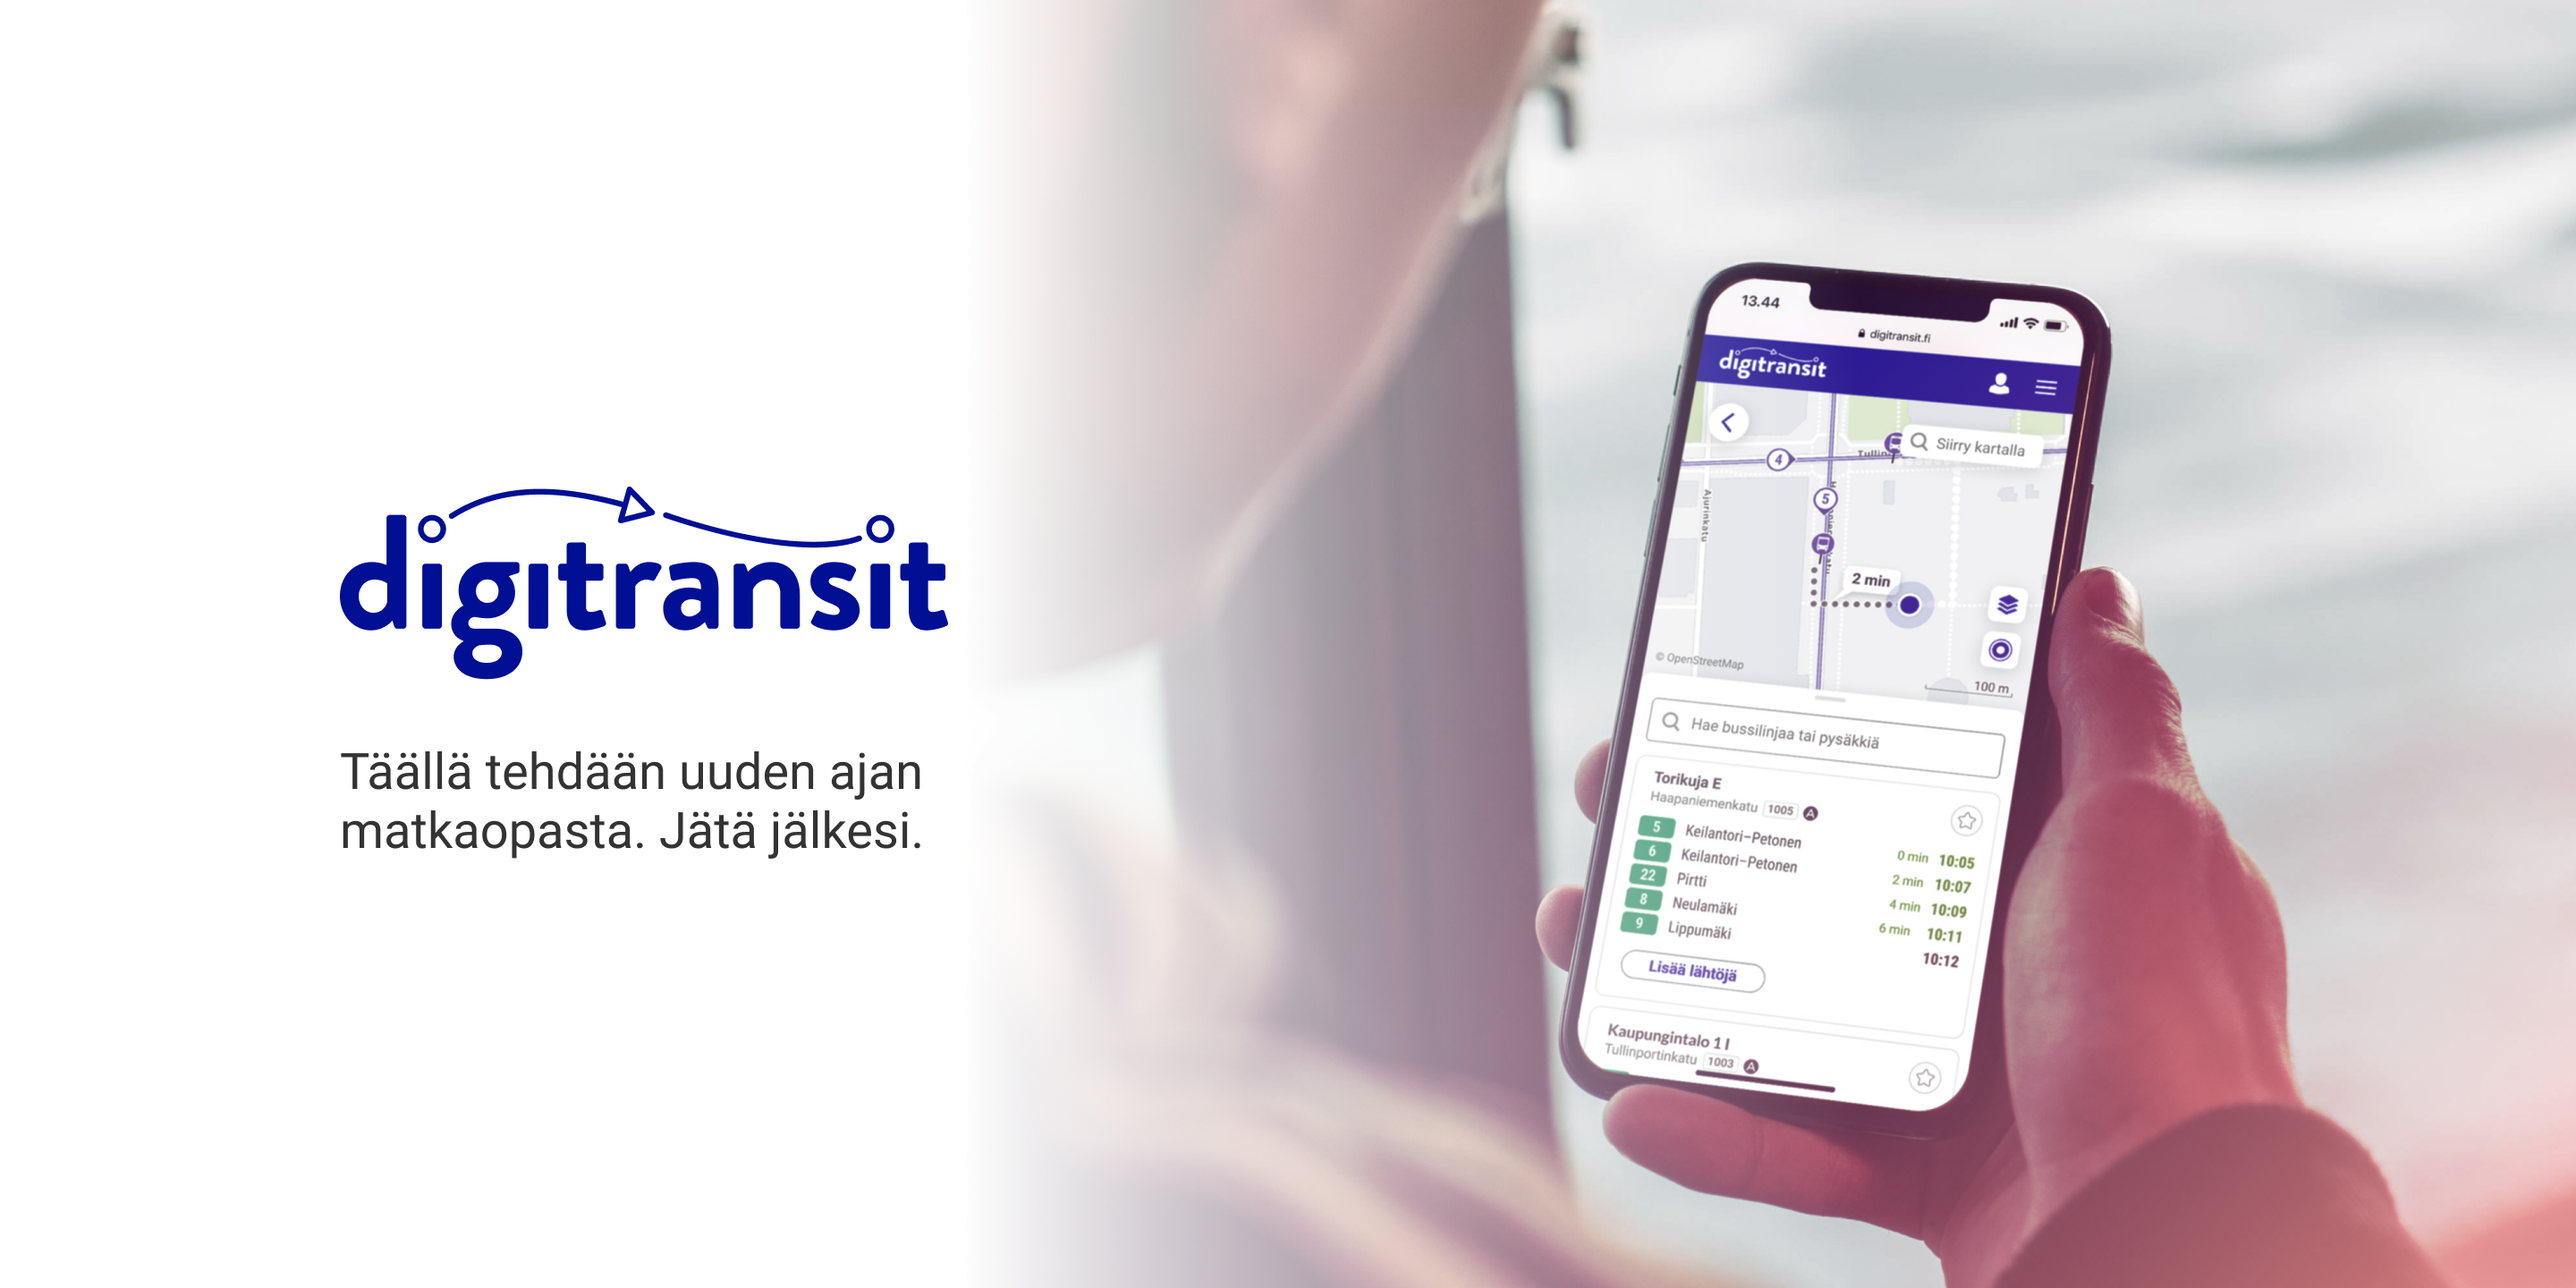
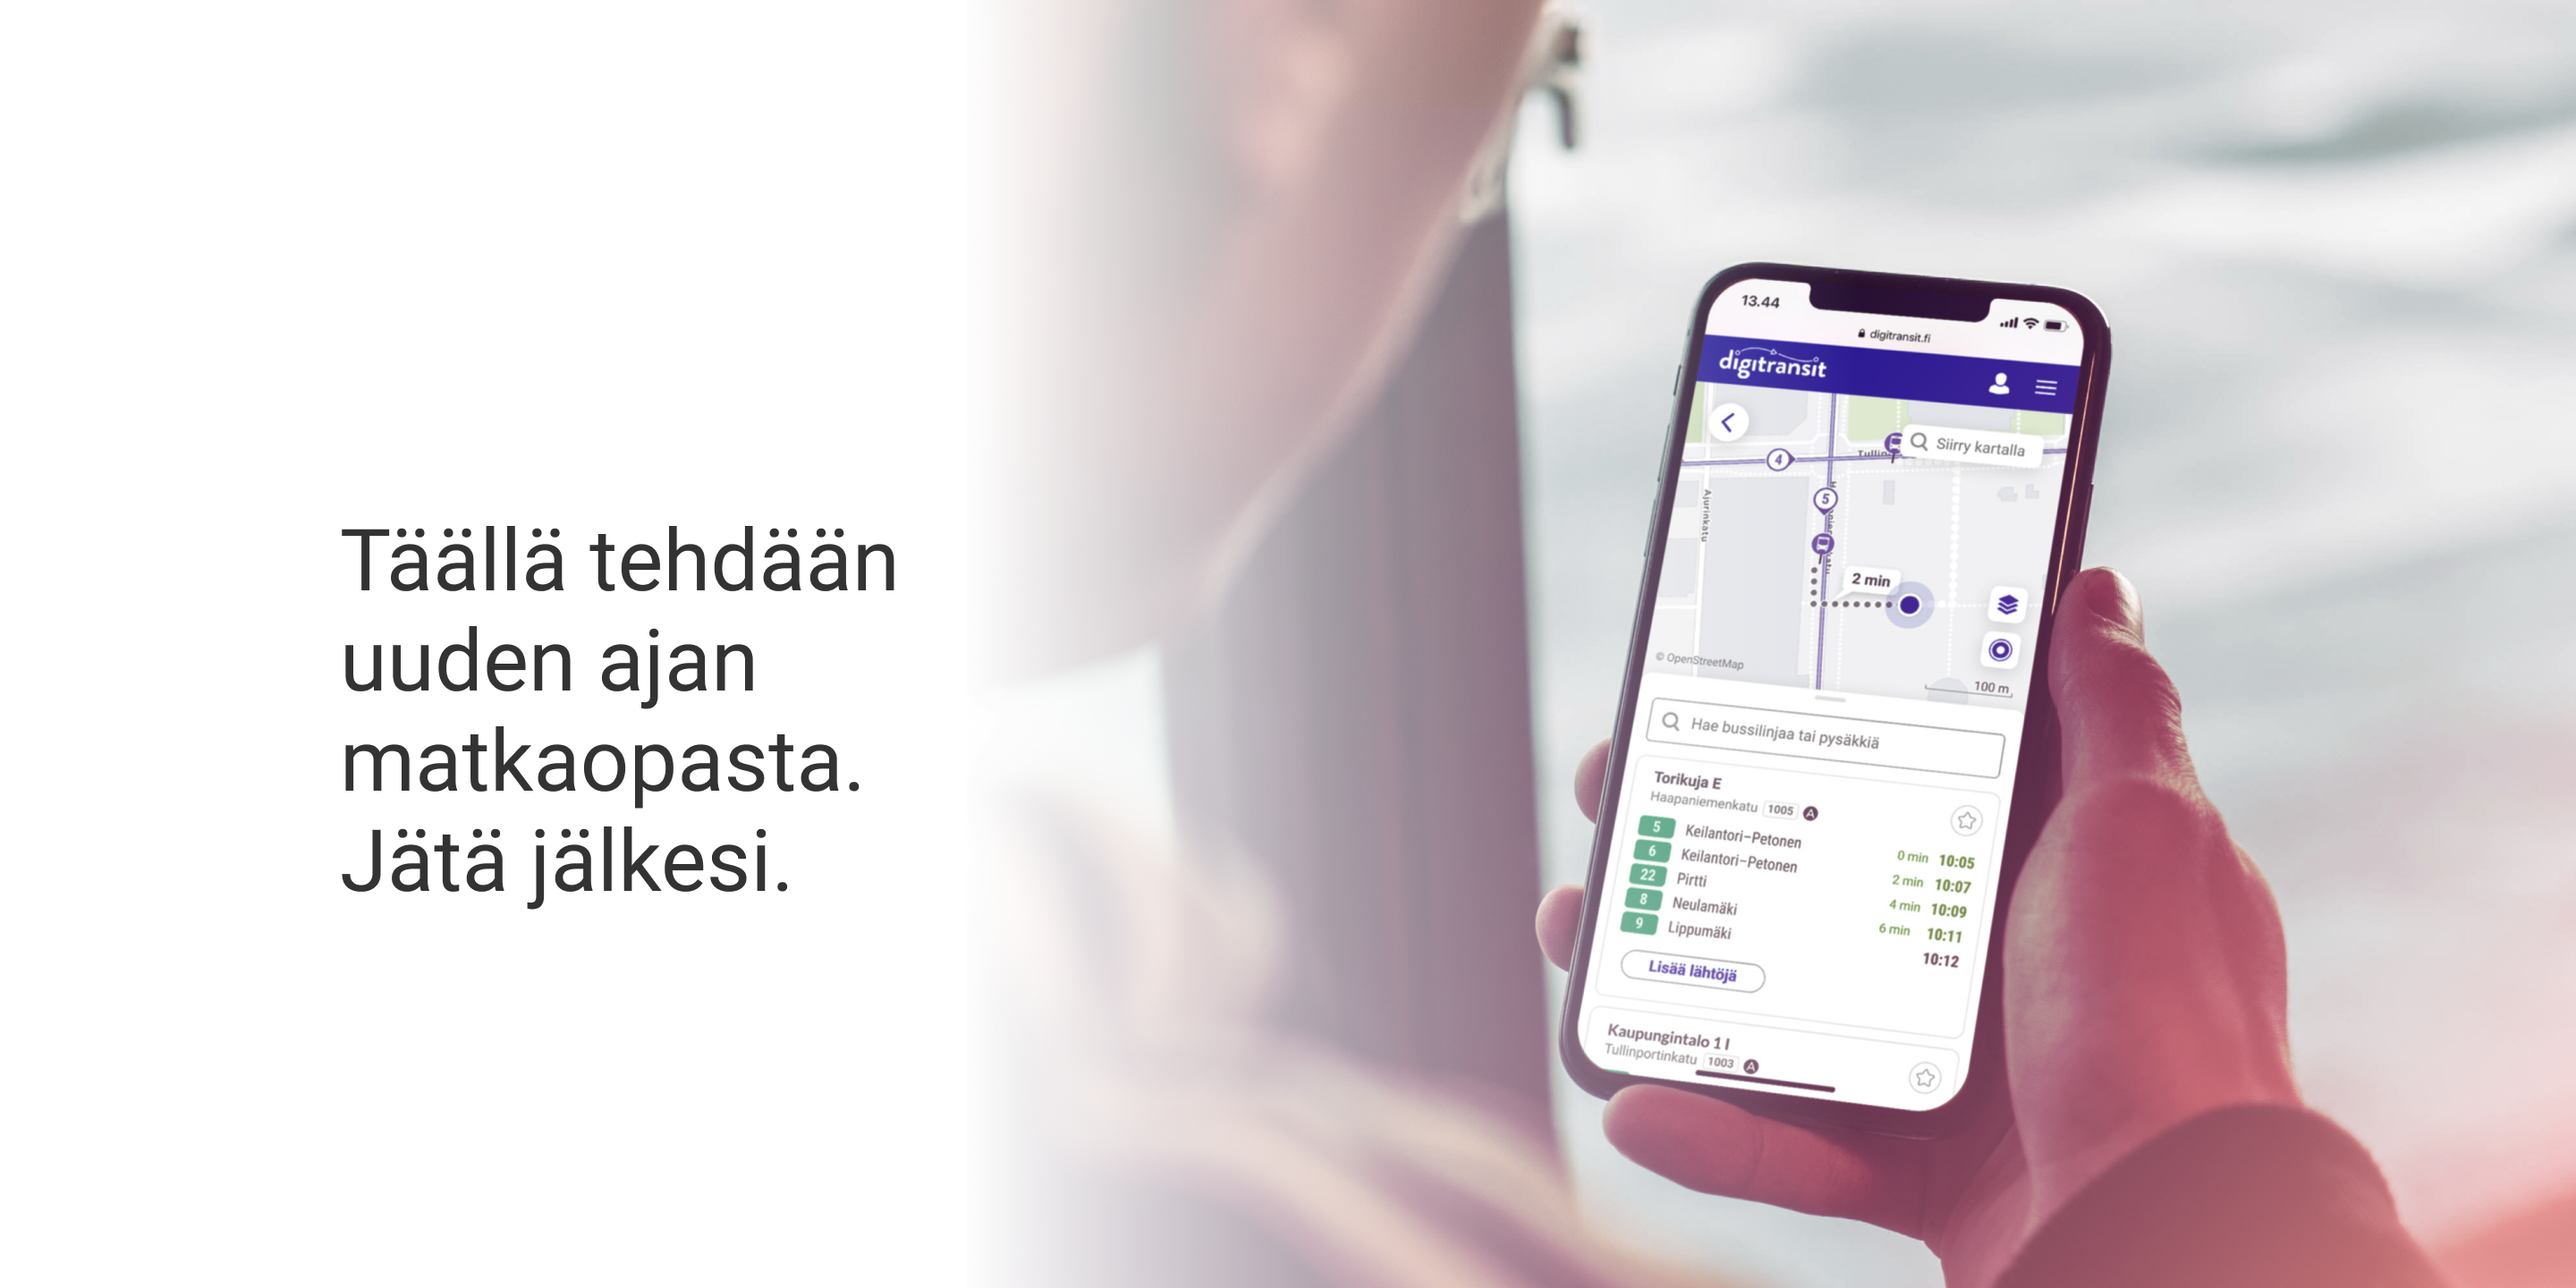
Update header images

Changed region(s): [[0.125, 0.375, 0.375, 0.7188]]

diff --git a/src/components/FrontPageHeader.js b/src/components/FrontPageHeader.js
@@ -3,13 +3,10 @@ import styled from "styled-components"
 
 import digitransitImage from "../pages/digitransit-image.png"
 import digitransitImage2x from "../pages/digitransit-image-2x.png"
+import digitransitImageMobile from "../pages/digitransit-image-mobile.png"
 import hslLogo from "../pages/hsl.svg"
 import traficomLogo from "../pages/traficom.svg"
 import lmjLogo from "../pages/lmj.svg"
-
-import header from "../pages/header.jpg";
-import header2x from "../pages/header.2x.jpg";
-import headerMobile from "../pages/header.mobile.jpg";
 
 const HeaderImage = styled.div`
     position: relative;
@@ -30,54 +27,9 @@ const HeaderImage = styled.div`
     }
 
     @media (max-width: 600px) {
-        background-image: url(${digitransitImage});
+        background-image: url(${digitransitImageMobile});
         background-size: 600px 750px;
         height: 750px;
-    }
-`
-
-const HeaderLogo = styled.img`
-    position: absolute;
-    left: 13%;
-    top: 272px;
-    width: 338px;
-    height: 108px;
-
-    @media (max-width: 1024px) {
-        left: 8%;
-        top: 370px;
-        width: 250px;
-        height: 80px;
-    }
-
-    @media (max-width: 600px) {
-        left: 40px;
-        top: 440px;
-    }
-`
-
-const HeaderText = styled.h1`
-    position: absolute;
-    color: #fff;
-    font-weight: 300;
-    -webkit-font-smoothing: antialiased;
-    text-align: left;
-    left: 13%;
-    top: 415px;
-    max-width: 430px;
-
-    @media (max-width: 1024px) {
-        left: 8%;
-        top: 470px;
-        max-width: 300px;
-    }
-
-    @media (max-width: 600px) {
-        left: 40px;
-        top: 540px;
-        max-width: 250px;
-        font-size: 1.6rem;
-        line-height: 1.25;
     }
 `
 
